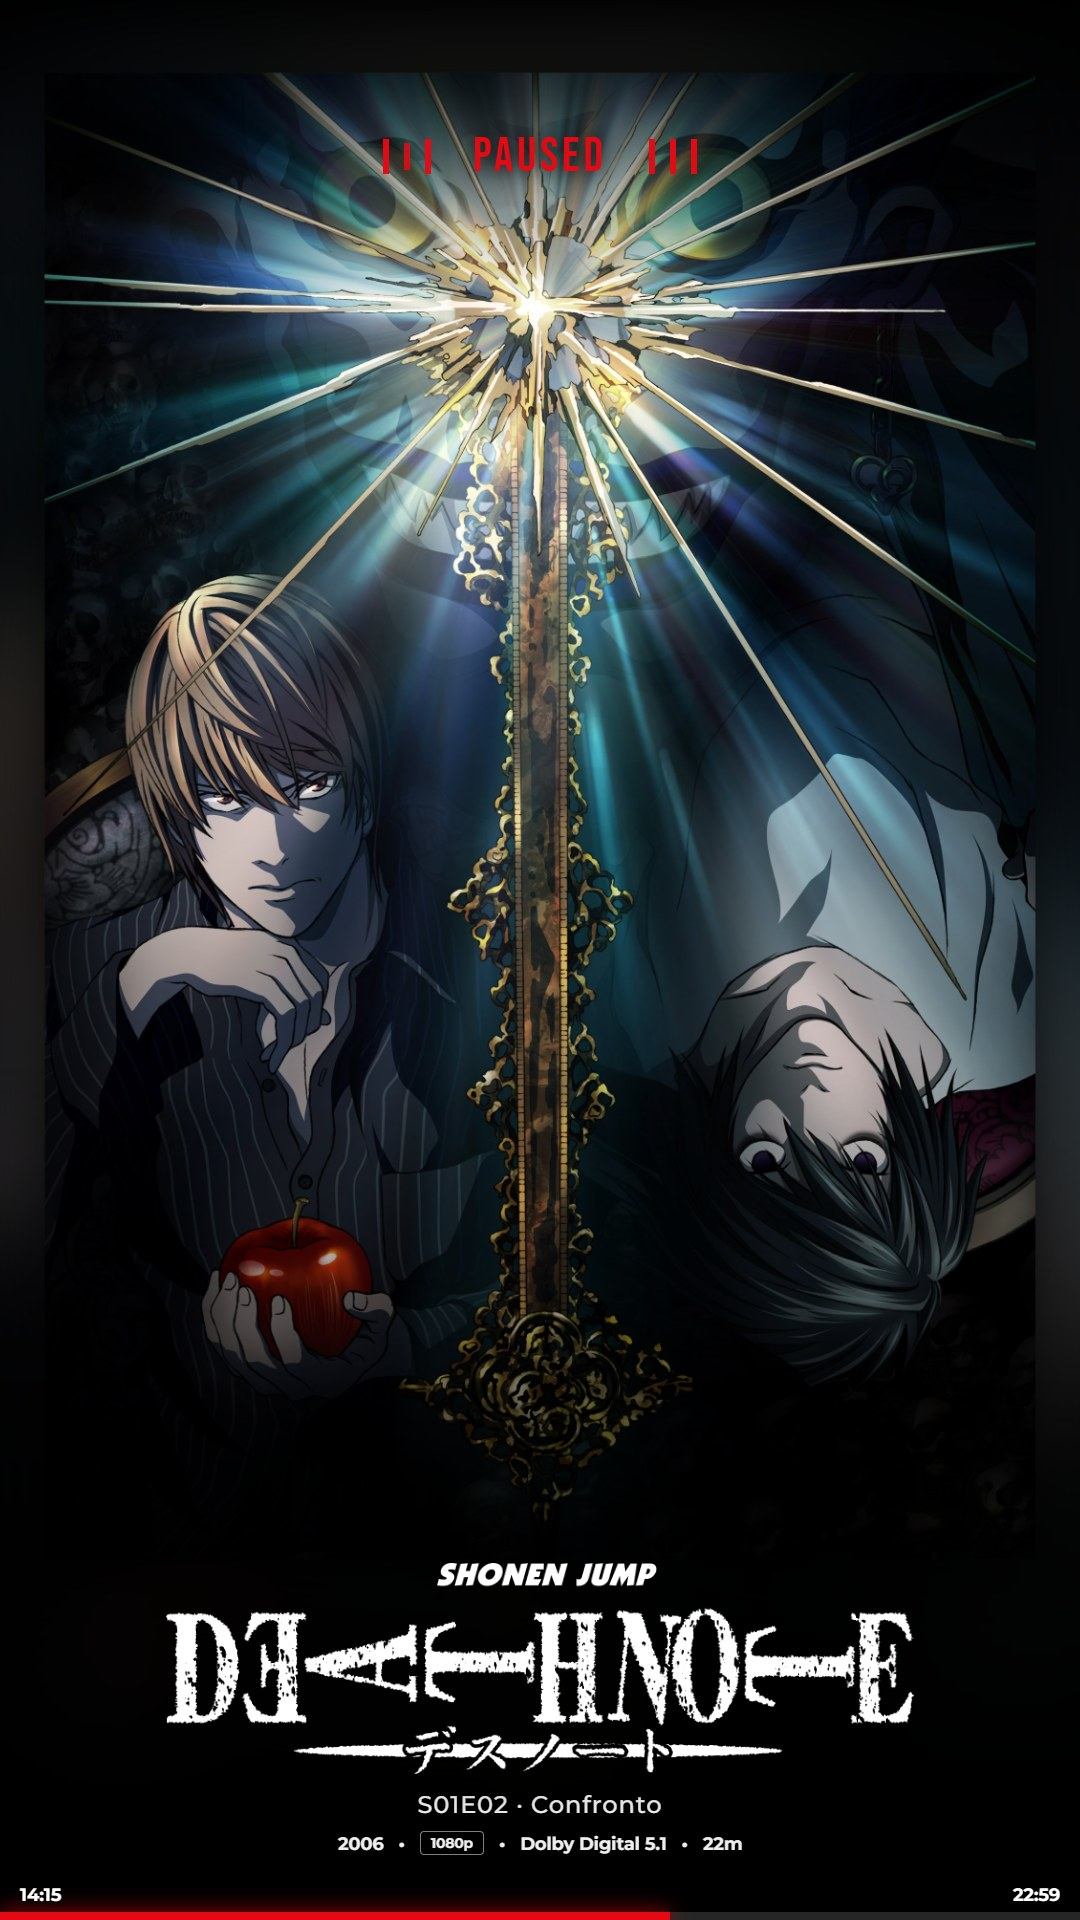
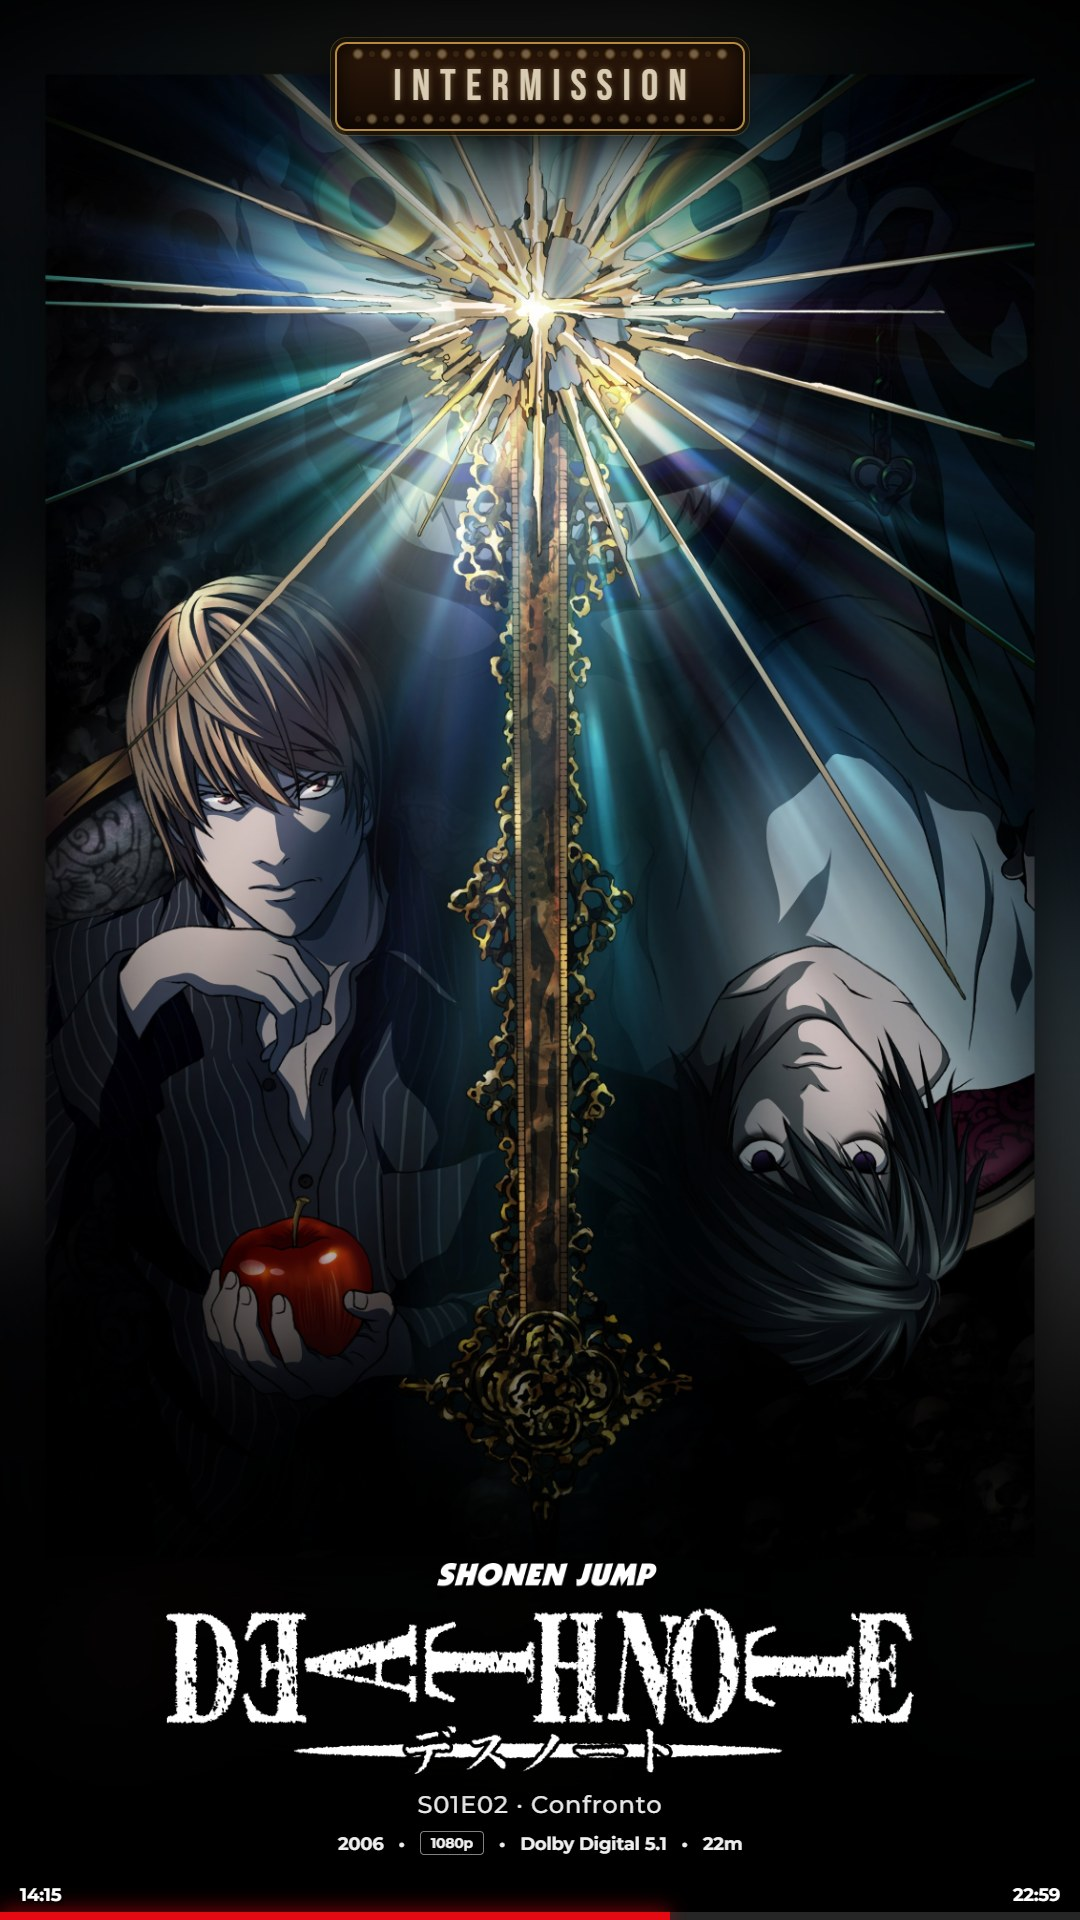
Redesign the Now Playing header as a cinema marquee sign
The red text drawn straight over the poster was hard to read and
clashed with posters that have text at the top. It is now a marquee
sign: dark warm panel with a gold frame, two rows of chasing light
bulbs and glowing letters. When playback is paused it reads
"INTERMISSION" and the lights stop and dim.

diff --git a/templates/poster.html b/templates/poster.html
@@ -52,28 +52,70 @@
         /* 2. TOP HEADER (Now Playing) */
         #top-bar {
             position: absolute; top: 0; left: 0; right: 0;
-            height: 15vh;
-            background: linear-gradient(to bottom, rgba(0,0,0,0.95) 0%, rgba(0,0,0,0) 100%);
+            height: 16vh;
+            background: linear-gradient(to bottom, rgba(0,0,0,0.85) 0%, rgba(0,0,0,0.45) 45%, rgba(0,0,0,0) 100%);
             z-index: 50;
-            display: flex; justify-content: center; padding-top: 25px;
+            display: flex; justify-content: center; align-items: flex-start;
+            padding-top: 2.2vh;
             opacity: 0; transition: opacity 0.5s;
+            pointer-events: none;
         }
 
-        #status-text {
-            font-family: 'Bebas Neue', sans-serif; font-size: 3rem;
-            color: var(--accent); letter-spacing: 4px;
-            display: flex; align-items: center; gap: 15px;
-            text-shadow: 0 0 20px rgba(0,0,0,1);
+        /* Cinema marquee sign: gold frame, chasing light bulbs, glowing letters */
+        #marquee {
+            position: relative;
+            padding: 22px 46px 20px;
+            border-radius: 12px;
+            background: linear-gradient(180deg, #2b1709 0%, #160b04 100%);
+            border: 2px solid #b98a3c;
+            box-shadow:
+                0 0 0 4px rgba(0, 0, 0, 0.65),          /* dark outer rim */
+                0 0 0 5px rgba(185, 138, 60, 0.45),      /* thin second gold line */
+                0 12px 40px rgba(0, 0, 0, 0.75),
+                0 0 36px rgba(255, 170, 60, 0.28),       /* warm light spill */
+                inset 0 0 20px rgba(0, 0, 0, 0.85);
         }
 
-        /* Equalizer Animation */
-        .eq-bar { width: 6px; background: var(--accent); animation: eq 0.8s infinite ease-in-out; }
-        .eq-bar:nth-child(2) { height: 30px; animation-delay: 0.1s; }
-        .eq-bar:nth-child(1), .eq-bar:nth-child(3) { height: 15px; }
-        @keyframes eq { 0%,100%{height:10px;opacity:0.5} 50%{height:35px;opacity:1} }
+        /* Rows of bulbs: dim bulbs everywhere + a lit layer that steps by one bulb (chase effect) */
+        .bulbs {
+            position: absolute; left: 16px; right: 16px; height: 12px;
+            background-image:
+                radial-gradient(circle, #fff6d0 0 2.5px, rgba(255, 196, 100, 0.95) 3.5px, rgba(255, 160, 60, 0) 6px),
+                radial-gradient(circle, rgba(255, 196, 110, 0.28) 0 2.5px, rgba(255, 196, 110, 0) 3.5px);
+            background-size: 28px 12px, 14px 12px;
+            background-repeat: repeat-x;
+            background-position: -7px 50%, 0 50%;
+            filter: drop-shadow(0 0 3px rgba(255, 180, 80, 0.9));
+            animation: chase 0.8s steps(2) infinite;
+        }
+        .bulbs.top { top: 4px; }
+        .bulbs.bottom { bottom: 4px; animation-direction: reverse; }
+        @keyframes chase {
+            from { background-position: -7px 50%, 0 50%; }
+            to   { background-position: 21px 50%, 0 50%; }
+        }
 
-        /* Paused playback */
-        #top-bar.paused .eq-bar { animation-play-state: paused; opacity: 0.5; }
+        #status-label {
+            display: block;
+            font-family: 'Bebas Neue', sans-serif; font-size: 2.7rem; line-height: 1;
+            letter-spacing: 10px; padding-left: 10px; /* balance the trailing letter-spacing */
+            color: #fff5da;
+            text-shadow:
+                0 0 6px rgba(255, 214, 140, 0.9),
+                0 0 18px rgba(255, 160, 60, 0.65),
+                0 0 42px rgba(255, 120, 30, 0.4);
+            animation: glow 4s ease-in-out infinite;
+        }
+        @keyframes glow { 0%, 100% { opacity: 1; } 50% { opacity: 0.88; } }
+
+        /* Paused playback: "intermission", lights stop and dim */
+        #top-bar.paused .bulbs { animation-play-state: paused; opacity: 0.35; filter: none; }
+        #top-bar.paused #status-label {
+            animation: none; color: #d8ccb4;
+            text-shadow: 0 0 6px rgba(255, 214, 140, 0.35);
+        }
+        #top-bar.paused #marquee { box-shadow: 0 0 0 4px rgba(0,0,0,0.65), 0 0 0 5px rgba(185,138,60,0.3),
+                                               0 12px 40px rgba(0,0,0,0.75), inset 0 0 20px rgba(0,0,0,0.85); }
 
         /* 3. POSTER CONTAINER */
         .poster-container {
@@ -195,10 +237,10 @@
 <body>
 
     <div id="top-bar">
-        <div id="status-text">
-            <div class="eq-bar"></div><div class="eq-bar"></div><div class="eq-bar"></div>
-            &nbsp; <span id="status-label">NOW PLAYING</span> &nbsp;
-            <div class="eq-bar"></div><div class="eq-bar"></div><div class="eq-bar"></div>
+        <div id="marquee">
+            <div class="bulbs top"></div>
+            <span id="status-label">NOW PLAYING</span>
+            <div class="bulbs bottom"></div>
         </div>
     </div>
 
@@ -259,6 +301,17 @@
         const elStatus = document.getElementById('status-label');
         const elTCurr = document.getElementById('t-curr');
         const elTTot = document.getElementById('t-tot');
+
+        // Marquee: size the bulb rows to a whole number of bulbs, centered, so none is cut at the edges
+        const elMarquee = document.getElementById('marquee');
+        const BULB_SPACING = 14;  // keep in sync with the dim bulb background-size in CSS
+        new ResizeObserver(() => {
+            const width = elMarquee.clientWidth;
+            const row = Math.floor((width - 24) / BULB_SPACING) * BULB_SPACING;
+            elMarquee.querySelectorAll('.bulbs').forEach(b => {
+                b.style.left = b.style.right = `${(width - row) / 2}px`;
+            });
+        }).observe(elMarquee);
 
         // Two slides used alternately: one on screen, one receiving the next poster
         const slideTemplate = document.getElementById('slide-template');
@@ -399,7 +452,7 @@
             elTCurr.innerText = data.time_current;
             elTTot.innerText = data.time_total;
             elTopBar.classList.toggle('paused', !!data.paused);
-            elStatus.innerText = data.paused ? 'PAUSED' : 'NOW PLAYING';
+            elStatus.innerText = data.paused ? 'INTERMISSION' : 'NOW PLAYING';
         }
 
         function fillSlide(slide, data, hasLogo) {

diff --git a/README.md b/README.md
@@ -14,7 +14,7 @@ Designed with a premium "Cinema Grade" aesthetic, featuring smooth animations, m
 
 * **🔄 Smart Carousel:** Randomly cycles through movies in your library with a smooth "Ken Burns" zoom effect and a crossfade between posters (no fade to black). The time per poster is configurable.
 * **⚡ Now Playing Detection:** Automatically interrupts the carousel (within ~3 seconds) when you start watching a movie or a TV episode.
-    * Displays a dedicated "NOW PLAYING" header with an animated equalizer (shows "PAUSED" when playback is paused).
+    * Displays a cinema marquee sign with chasing light bulbs: "NOW PLAYING", or "INTERMISSION" (lights off) when playback is paused.
     * Shows a live progress bar synced with your playback.
     * Displays start/end times and formatted duration.
     * TV episodes show the series poster and logo, with `S01E02 · Episode title` below the title.
